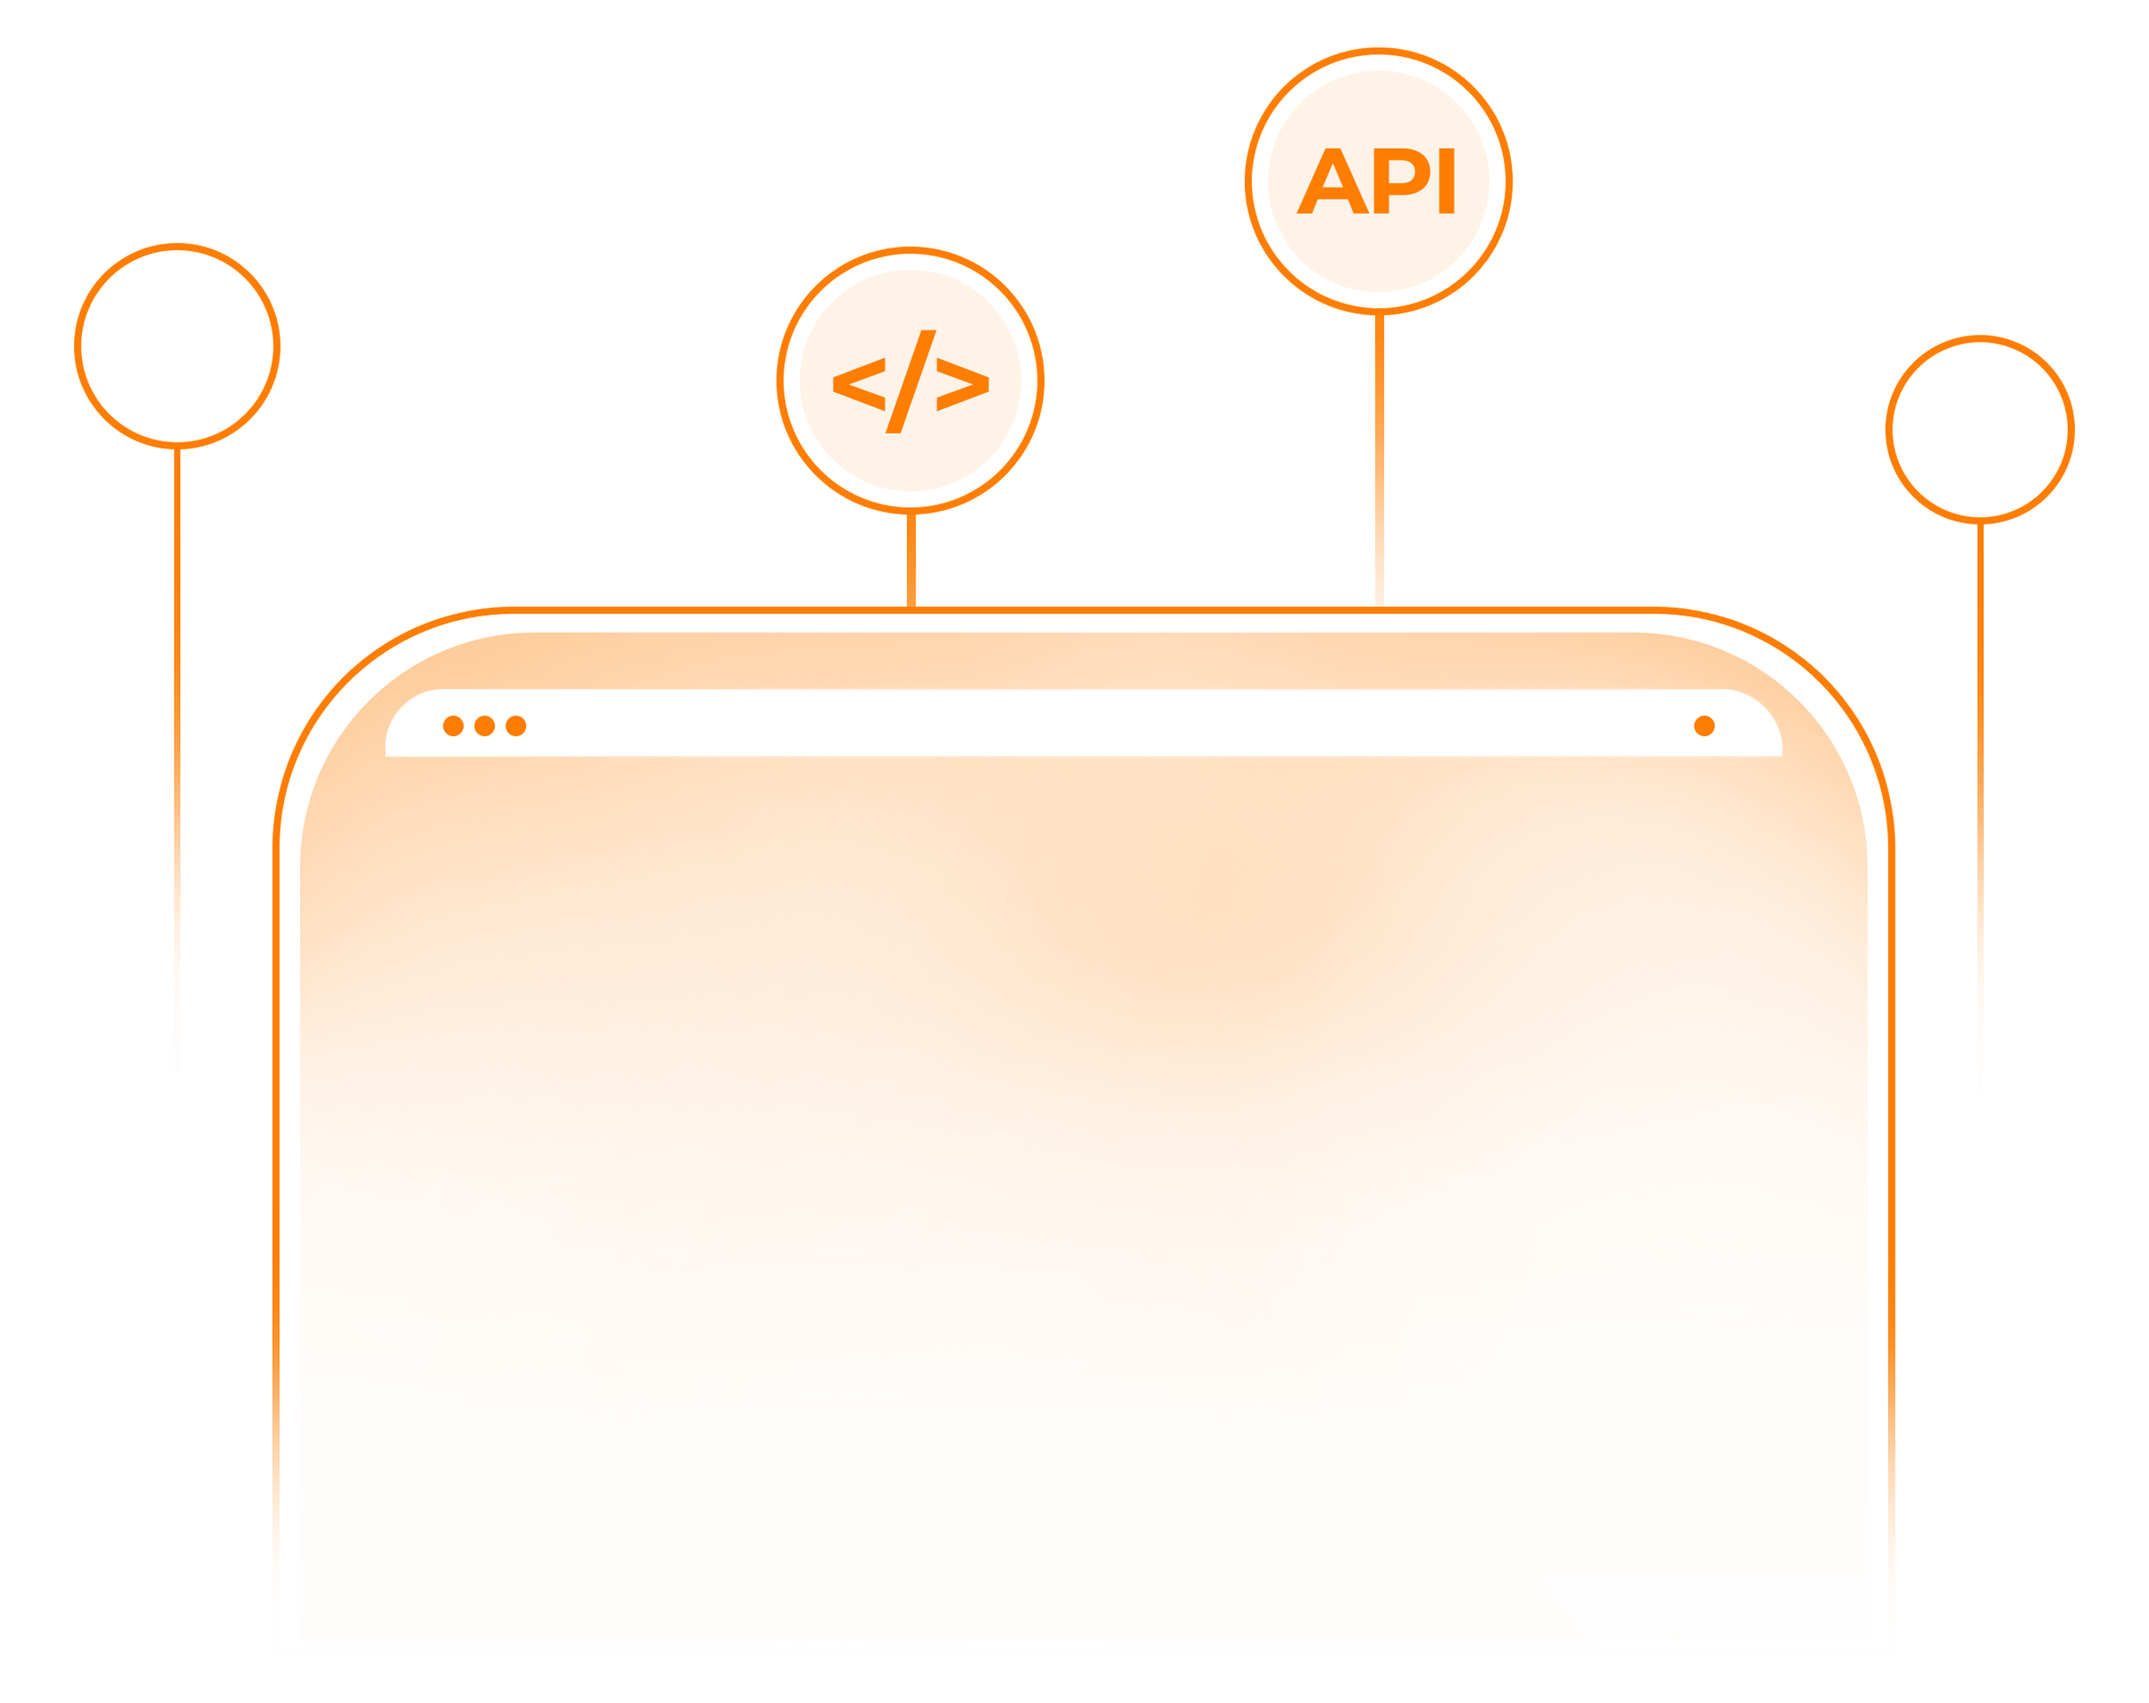
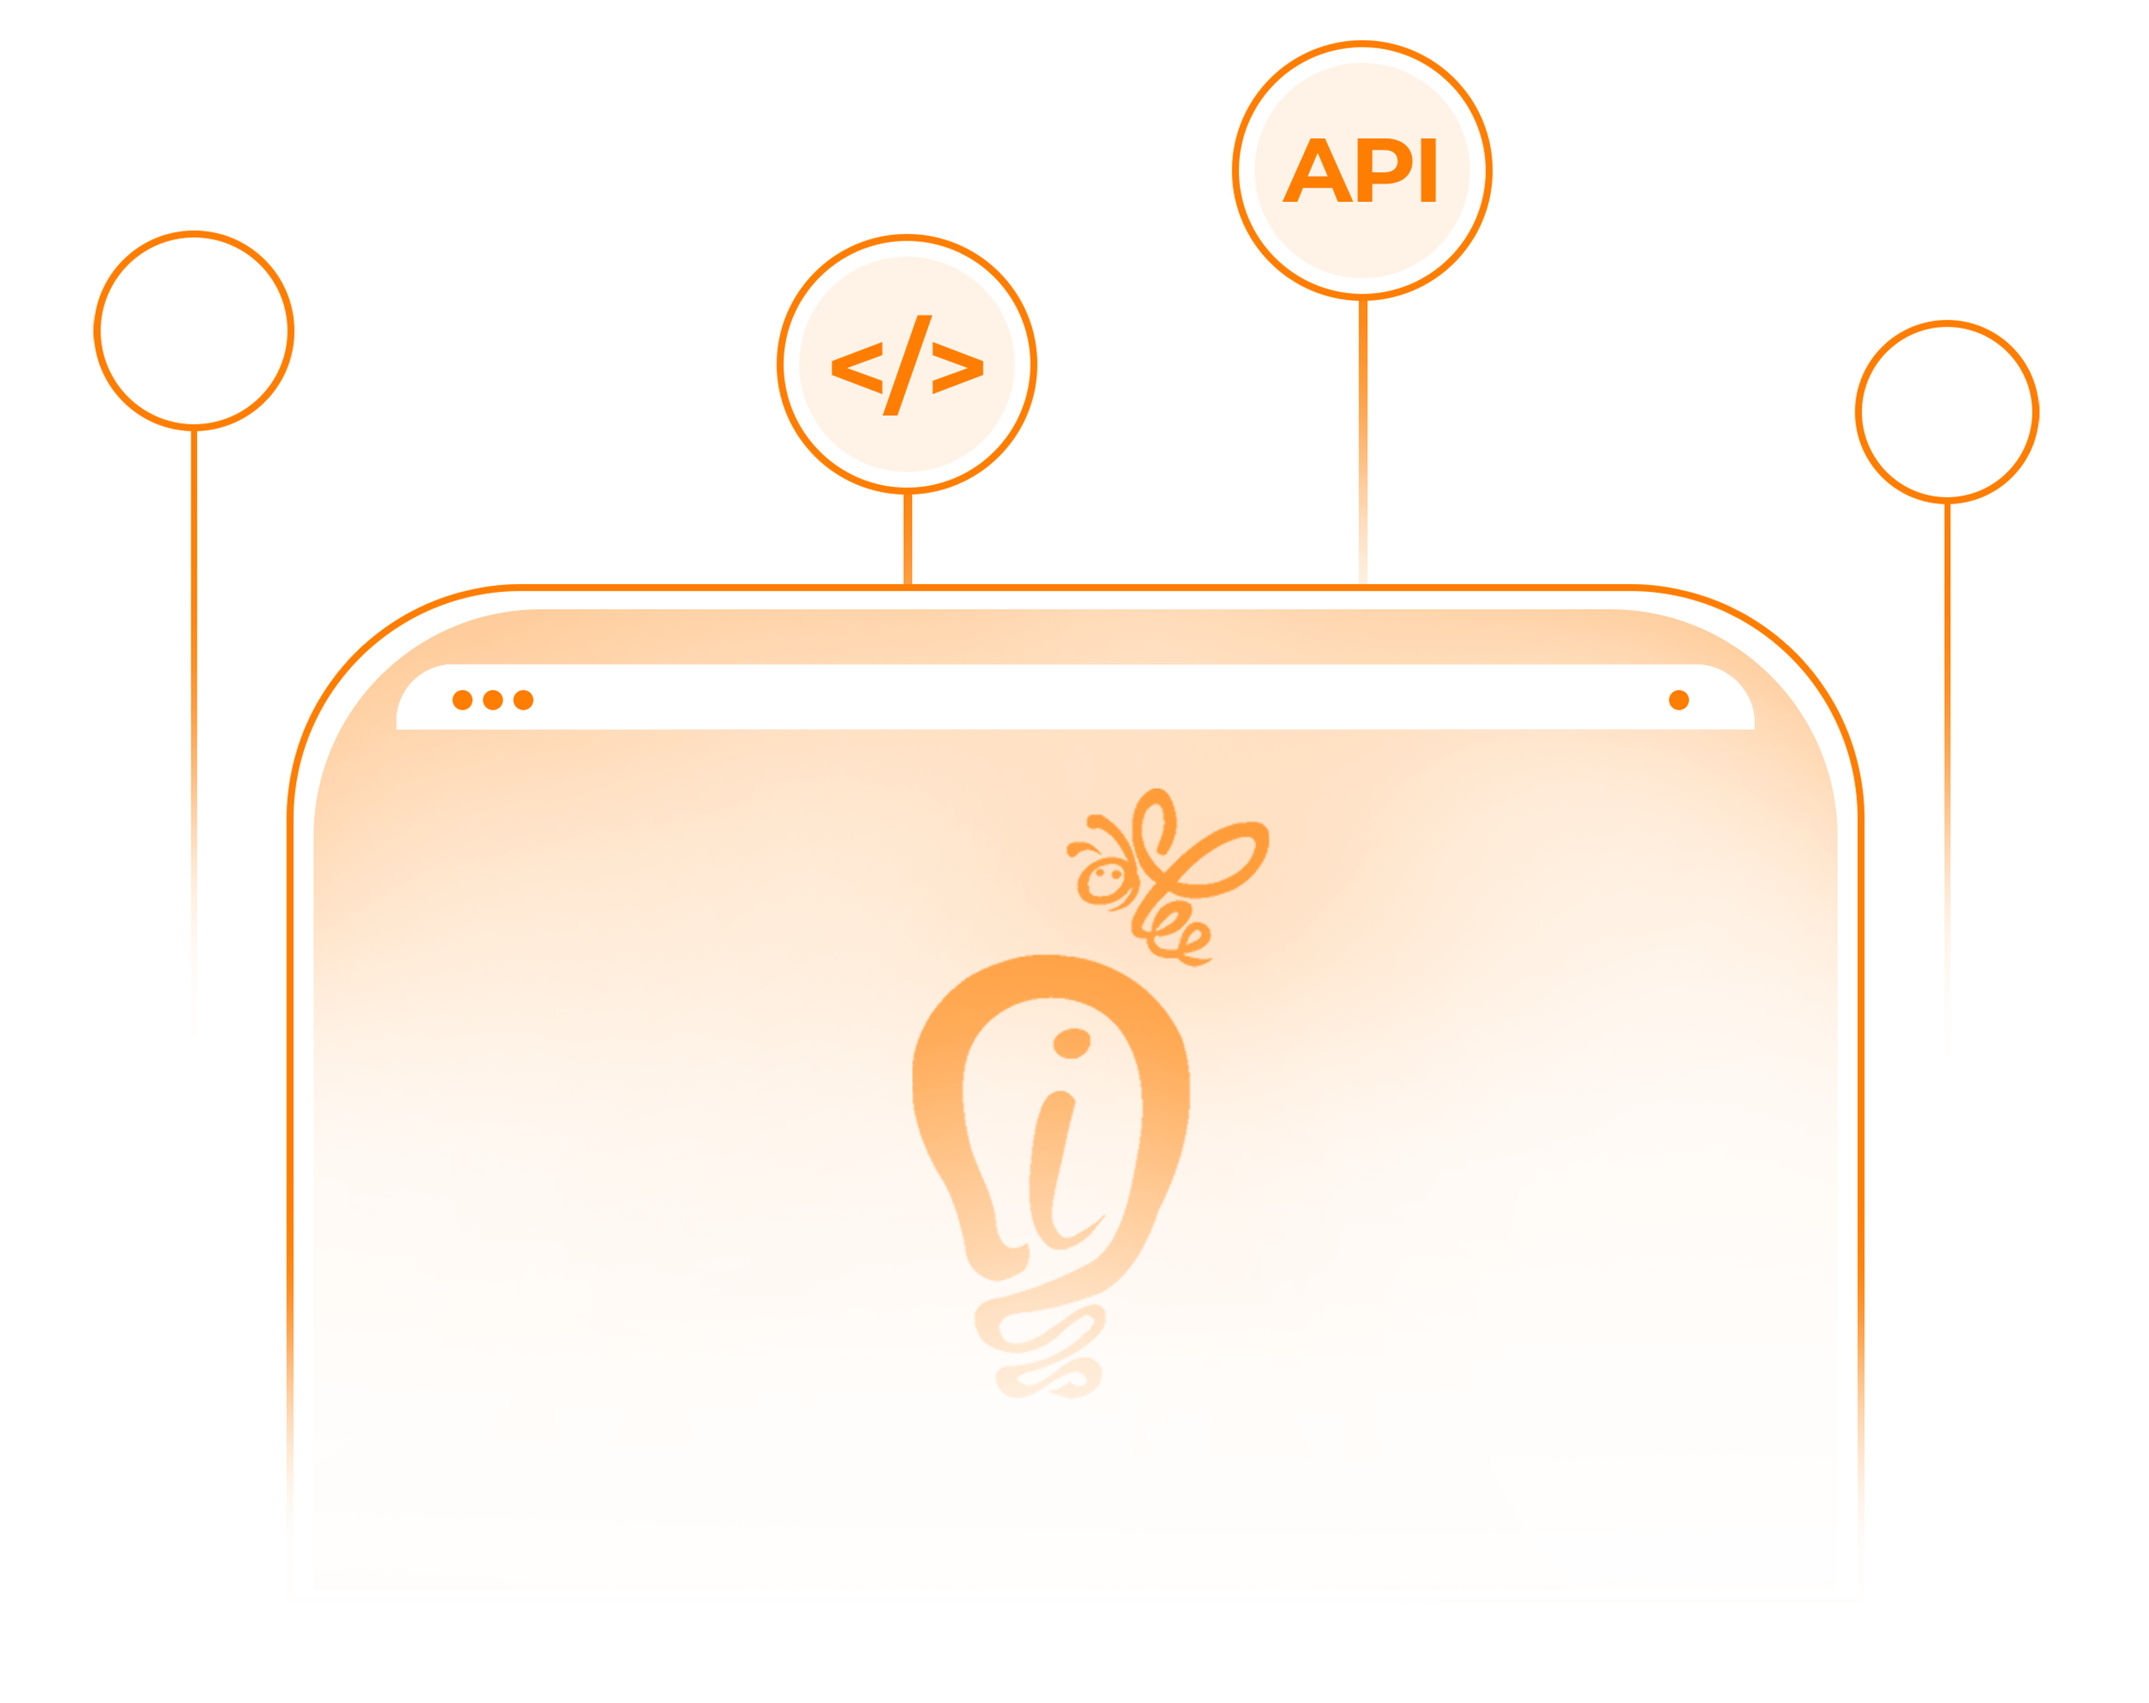
changes

diff --git a/services/social-media-marketing.html b/services/social-media-marketing.html
@@ -130,11 +130,9 @@ Facebook, Instagram, LinkedIn experts." name="description"/>
                 </div>
                 <div class="col-md-6 ">
                 <div   class="know-box ">
-                   
-                  
                         <h4 class="heading-main">Did You Know?</h4>
                         <p class="para">A good social media marketing strategy provides more Inbound Traffic, gives improved search engine rankings, results in higher conversion rates, cultivates improved brand loyalty and is very much Cost-Effective.</p>
-                   
+                        <!-- <img src="../img/dyk-logo.png" alt=""> -->
                 </div>
             </div>
             </div>

diff --git a/services/web-hosting-solutions.html b/services/web-hosting-solutions.html
@@ -130,11 +130,9 @@ and enterprises." name="description"/>
                 </div>
                   <div class="col-md-6 ">
                 <div   class="know-box ">
-                   
-                  
                         <h4 class="heading-main">Did You Know?</h4>
                         <p class="para">When it comes to succeeding online your site's performance matters a lot. Hosting solutions give outstanding technical support, Improved Website Security and gives good connectivity with higher bandwidth.</p>
-                   
+                        <!-- <img src="../img/dyk-logo.png" alt=""> -->
                 </div>
             </div>
             </div>

diff --git a/services/bulk-sms.html b/services/bulk-sms.html
@@ -131,11 +131,9 @@ for startups and enterprises. " name="description"/>
                 </div>
                  <div class="col-md-6 ">
                 <div   class="know-box ">
-                   
-                  
                         <h4 class="heading-main">Did You Know?</h4>
                         <p class="para">It is one of the fastest and most reliable ways to reach a large audience instantly, offering high open rates and excellent engagement for time-sensitive promotions and updates.</p>
-                   
+                        <!-- <img src="../img/dyk-logo.png" alt=""> -->
                 </div>
             </div>
             </div>

diff --git a/services/web-content-management.html b/services/web-content-management.html
@@ -129,11 +129,9 @@ your website with advanced content control. " name="description"/>
                     
                 </div> <div class="col-md-6 ">
                 <div   class="know-box ">
-                   
-                  
                         <h4 class="heading-main">Did You Know?</h4>
                         <p class="para">It simplify the process of creating, updating, and organizing website content—empowering teams to manage digital experiences without needing to write code.</p>
-                   
+                        <!-- <img src="../img/dyk-logo.png" alt=""> -->
                 </div>
             </div>
             </div>

diff --git a/services/application-development.html b/services/application-development.html
@@ -169,6 +169,7 @@ businesses needing custom software solutions." name="description"/>
                                 <p class="para">
                                     Application development empowers businesses with tailored digital solutions, enhancing user experience, performance, and scalability across platforms. It plays a vital role in driving engagement, streamlining operations, and staying competitive in today’s tech-driven world.
                                 </p>
+                                <!-- <img src="../img/dyk-logo.png" alt=""> -->
                             </div>
                         </div>
                     </div>

diff --git a/services/web-designing.html b/services/web-designing.html
@@ -130,6 +130,7 @@ friendly websites with fast delivery and mobile-first design." name="description
                 <div   class="know-box ">
                         <h4 class="heading-main">Did You Know?</h4>
                         <p class="para">A well designed website enhances mobile user engagement, ensures faster loading times, minimizes maintenance requirements, reduces bounce rates, improves search engine visibility, and increases conversion rates making it a vital asset for sustainable business growth.</p>
+                        <!-- <img src="../img/dyk-logo.png" alt=""> -->
                 </div>
             </div>
             </div>

diff --git a/services/digital-marketing.html b/services/digital-marketing.html
@@ -169,6 +169,7 @@ services including SEO, social media marketing, and Google Ads." name="descripti
                                 <p class="para">
                                     It ensures a nice Content performance and lead generation, gives Improved conversion rates, is More cost effective than traditional marketing, Delivers Higher revenues and Ensure online survival.
                                 </p>
+                                <!-- <img src="../img/dyk-logo.png" alt=""> -->
                             </div>
                         </div>
                     </div>

diff --git a/services/email-marketing.html b/services/email-marketing.html
@@ -169,6 +169,7 @@ workflows tailored to your audience." name="description"/>
                                 <p class="para">
                                     It remains one of the most cost-effective digital strategies, delivering high ROI by reaching targeted audiences with personalized, actionable content directly in their inbox.
                                 </p>
+                                <!-- <img src="../img/dyk-logo.png" alt=""> -->
                             </div>
                         </div>
                     </div>

diff --git a/css/style-main.css b/css/style-main.css
@@ -2412,6 +2412,10 @@ transition:all .5s ease;
 }
 .know-box{
   background: #D9F4FF;
+  background-image: url('../img/dyk-bg.png');
+  background-repeat: no-repeat;
+  background-size: contain;
+  background-position: center;
   padding:40px;
  text-align: left;
   margin:15px 0;
@@ -2424,6 +2428,12 @@ transition:all .5s ease;
 .know-box .para{
     font-size: 20px;
     font-weight: 500;
+}
+
+.know-box img{
+  position: absolute;
+  right: 0;
+  top: 2%;
 }
 /*-------------------------------form-box---------------------------------*/
 .form-box{

diff --git a/services/mobile-application-development.html b/services/mobile-application-development.html
@@ -169,6 +169,7 @@ more customers on mobile." name="description"/>
                                 <p class="para">
                                     An efficient mobile app strengthen customer engagement, gives value for customers, creates brand awareness and recognition and mushrooms customer loyalty.
                                 </p>
+                                <!-- <img src="../img/dyk-logo.png" alt=""> -->
                             </div>
                         </div>
                     </div>
